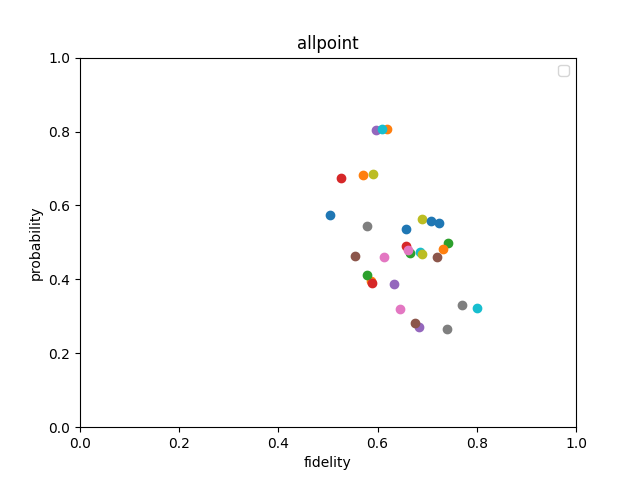
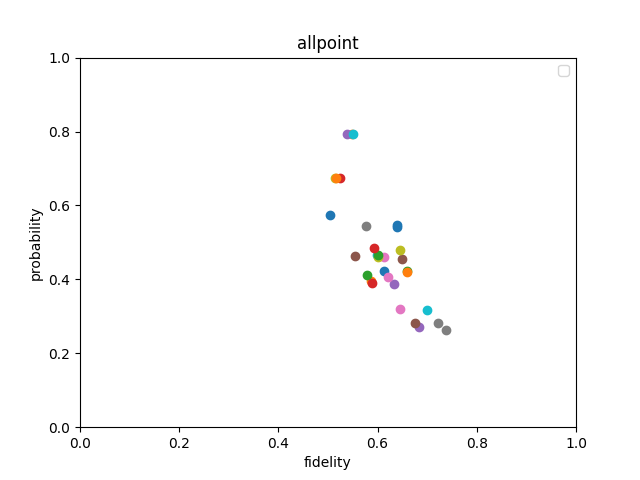
修改距離為line graph表示，Ex. 1->3的距離為1->2 + 2->3

diff --git a/code/twoState/SinglePath.cpp b/code/twoState/SinglePath.cpp
@@ -8,6 +8,7 @@ int n;                        // 總節點個數
 vector<double> x, y;          // 點的x,y座標
 vector<double> memory;        // 單點的memory
 vector<double> swapping_prob; // 每個點做swapping的機率
+vector<double> dis;
 unordered_map<int, unordered_map<int, Node *>> nodeMap;
 
 Node *getNode(int ID, int mem) {
@@ -97,6 +98,7 @@ void buildGraph(string name) {
   in >> n;
   x.resize(n);
   y.resize(n);
+  dis.resize(n,0);
   memory.resize(n);
   swapping_prob.resize(n);
 
@@ -108,12 +110,15 @@ void buildGraph(string name) {
 
   in.close();
 
+  for(int i=1; i<n; i++)
+    dis[i] = dis[i-1] + distance(i-1,i);
+
   // from i to j
   for (int i = 0; i < n - 1; i++) {
     for (int j = i + 1; j < n; j++) {
       // 若 2 點距離超過 fiber distance，不建邊
-      cout << "i :" << i << " j : " << j << " dis : " << distance(i, j) << endl;
-      if (distance(i, j) > fiber_distance)
+      cout << "i :" << i << " j : " << j << " dis : " << dis[j] - dis[i] << endl;
+      if ((dis[j] - dis[i]) > fiber_distance)
         break;
 
       // iMemory, iM: memory node i already used
@@ -126,9 +131,9 @@ void buildGraph(string name) {
         Node *s = getNode(i, iM);
 
         // prob to create the edge
-        double entangleProb = entangle_success_prob(distance(i, j));
+        double entangleProb = entangle_success_prob((dis[j] - dis[i]));
         double curProb = entangleProb;
-        double entangleFidelity = entangle_fidelity(distance(i, j), beta);
+        double entangleFidelity = entangle_fidelity((dis[j] - dis[i]), beta);
         double curFidelity = entangleFidelity;
 
         for (int jMemory = 1; jMemory <= memory[j]; jMemory++) {

diff --git a/code/parameter.cpp b/code/parameter.cpp
@@ -1,6 +1,6 @@
 
 /*   hyperparameter   */
-double threshold = 0.6;      // fidelity threshold
+double threshold = 0.7;      // fidelity threshold
 double fiber_distance = 250; // fiber的極限傳輸距離
 double beta =
     0.00438471; // 算fidelity - distance的beta參數，會根據fiber極限距離計算
